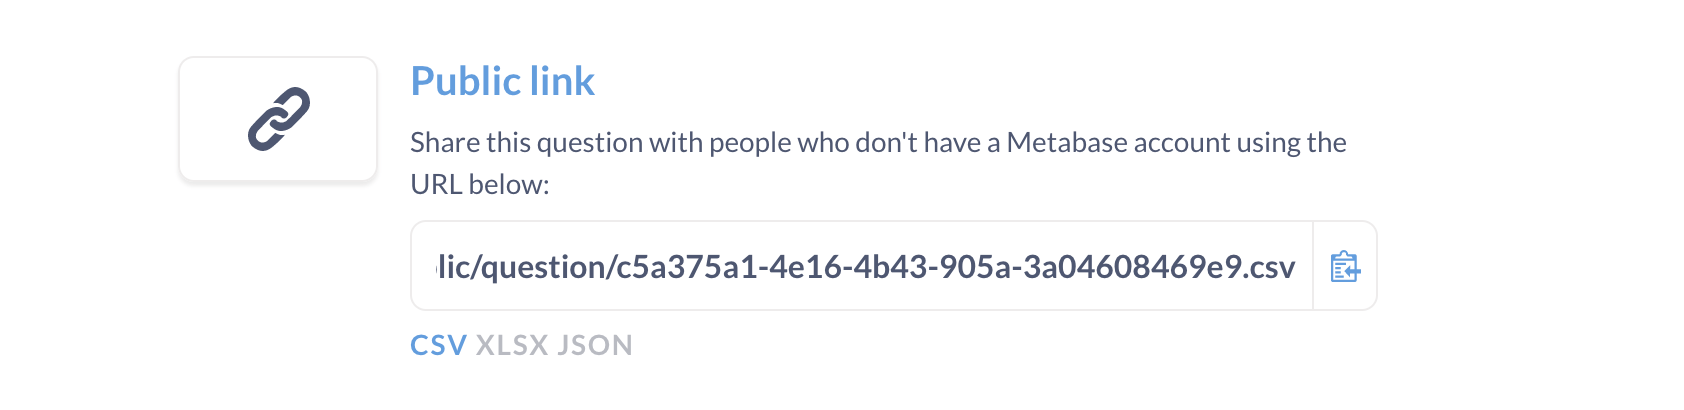
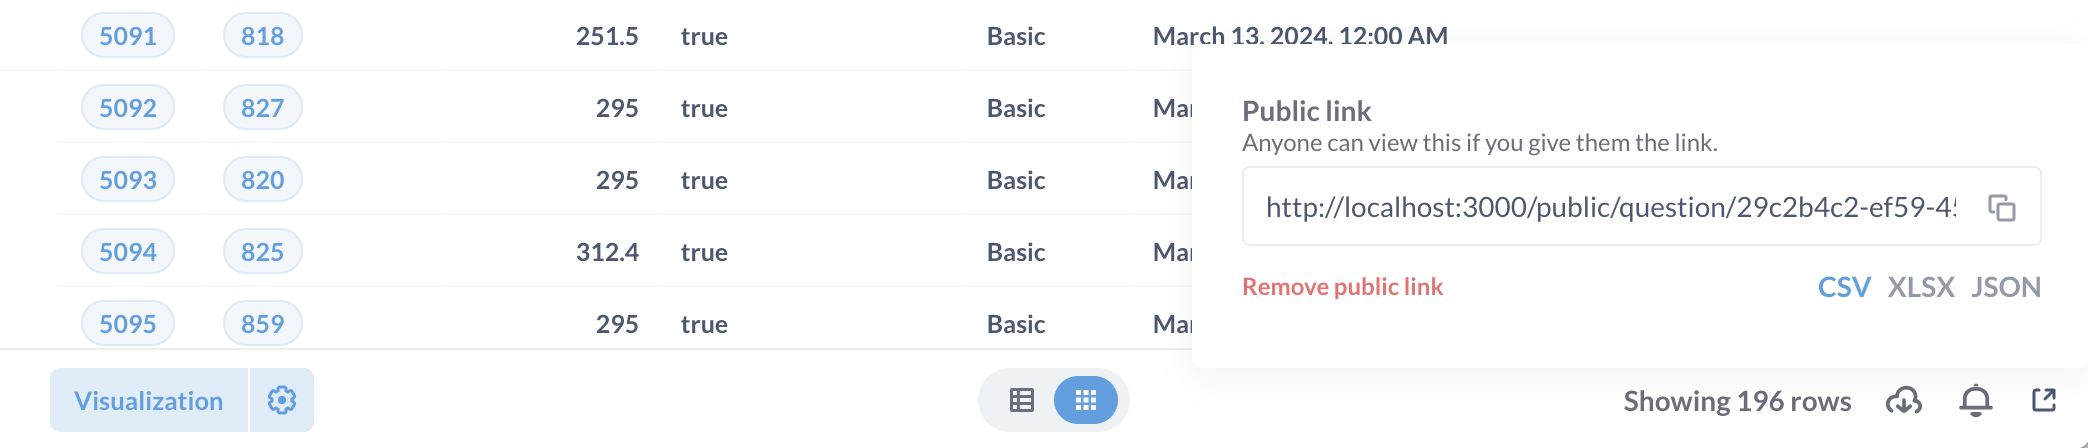
docs - update public sharing (#41044)

diff --git a/docs/questions/sharing/public-links.md b/docs/questions/sharing/public-links.md
@@ -8,31 +8,21 @@ redirect_from:
 
 # Public sharing
 
-Sometimes you'll want to share a dashboard or question with someone who isn't a part of your organization or company. To share your work with people who don't need access to your full Metabase instance, you can create public links and public embeds.
+You can create and share public links (URLs) for questions and dashboards. You can view them as standalone destinations (URLs) or as embedded iframes in another page or app. In both cases, the public item will display static (view-only) results of your question or dashboard, so visitors won't be able to drill-down into the underlying data on their own.
 
-## Enable public sharing in Metabase
+## Create a public link for a question
 
-![Enable public sharing](../images/enable-public-sharing.png)
+![Create a public link for a question](../images/create-a-public-link.png)
 
-In order to share Metabase items like questions and dashboards via a public link or an embedded iframe, an admin needs to enable public sharing for that Metabase instance by going to **Settings gear icon** > **Admin settings** > **Public sharing**.
+You can find the **Sharing** icon at the bottom right corner of a question. You can create a link to view the question as is, or to [export the results of a question](#public-link-to-export-question-results-in-csv-xlsx-json).
 
-Once toggled on, the **Public sharing** section will display Metabase questions, dashboards, and actions with active public links. To deactivate a public link, click the **X** in the **Revoke link** column for that item.
+## Create a public link for a dashboard
 
-## Enable sharing on your saved question or dashboard
+To share a dashboard via a public link, click on the **Sharing** button in the top right menu.
 
-Once [public sharing](#enable-sharing-on-your-saved-question-or-dashboard) is enabled for your Metabase, you'll find the **Sharing and embedding icon** on saved questions and dashboards (it looks like a box with an arrow pointing to the upper right).
+![Sharing a dashboard](../images/dashboard-sharing.png)
 
-You can find the **Sharing and embedding icon** icon at the bottom right corner of a question, or the top right corner of a dashboard.
-
-To enable public sharing on a question or dashboard, click on the **Sharing and embedding icon** icon to bring up the sharing settings modal, then click on the toggle.
-
-![Enable sharing](../images/enable-links.png)
-
-For more information about the option to **Embed this item in an application**, see the docs on [static embedding](../../embedding/static-embedding.md).
-
-## Public links
-
-Once you've [enabled sharing on your question or dashboard](#enable-sharing-on-your-saved-question-or-dashboard), you can copy and share the public link URL with whomever you please. The public link URL will display static (view-only) results of your question or dashboard, so visitors won't be able to drill-down into the underlying data on their own.
+To embed a dashboard, see [static embedding](../../embedding/static-embedding.md).
 
 ## Public link to export question results in CSV, XLSX, JSON
 
@@ -40,12 +30,13 @@ The export option is only available for questions, not dashboards.
 
 To create a public link that people can use to download the results of a question:
 
-1. Click on the **Sharing and embedding** icon for the question.
-2. Click the toggle to [enable sharing](#enable-sharing-on-your-saved-question-or-dashboard).
-3. Click on the file format you want (below the **Public link** URL).
-4. Open the public link in a new tab to test the download.
+1. Click on the **Sharing** icon for the question.
+2. Select **Public link**.
+3. Click on the file format you want (below the **Public link** URL): CSV, XLSX, or JSON.
 
 ![Public export](../images/public-export.png)
+
+Open the public link in a new tab to test the download.
 
 ### Exporting raw, unformatted question results
 
@@ -55,7 +46,7 @@ To export the raw, unformatted rows, you'll need to append `?format_rows=false` 
 https://www.example.com/public/question/cf347ce0-90bb-4669-b73b-56c73edd10cb.csv?format_rows=false
 ```
 
-By default, Metabase will export the results of a question that include any formatting you added (for example, if you formatted a column with floats to display as a percentage (o.42 -> 42%)).
+By default, Metabase will export the results of a question that include any formatting you added (for example, if you formatted a column with floats to display as a percentage (0.42 -> 42%)).
 
 See docs for the [export format endpoint](https://www.metabase.com/docs/latest/api/public#get-apipubliccarduuidqueryexport-format).
 
@@ -63,10 +54,10 @@ See docs for the [export format endpoint](https://www.metabase.com/docs/latest/a
 
 Metabase's automatic [drill-through](https://www.metabase.com/learn/questions/drill-through) won't work on public dashboards because public links don't give people access to your raw data.
 
-You can simulate drill-through on a public dashboard by setting up a [custom click behaviour](../../dashboards/interactive.md) that sends people from one public link to another public link.
+You can simulate drill-through on a public dashboard by setting up a [custom click behavior](../../dashboards/interactive.md) that sends people from one public link to another public link.
 
 1. Create a second dashboard to act as the destination dashboard.
-2. [Enable sharing](#enable-sharing-on-your-saved-question-or-dashboard) on the destination dashboard.
+2. [Create a public link](#create-a-public-link-for-a-dashboard) for the destination dashboard.
 3. Copy the destination dashboard's public link.
 4. On your primary dashboard, create a [custom destination](../../dashboards/interactive.md#custom-destinations) with type "URL".
 5. Set the custom destination to the destination dashboard's public link.
@@ -81,12 +72,15 @@ For example, if you have a primary public dashboard that displays **Invoices** d
 
 ## Public embeds
 
-If you want to embed your question or dashboard in a simple web page or blog post:
+![Public embed](../images/public-embed.png)
 
-1. Click on the **Sharing and embedding** icon for your question or dashboard.
-2. Click the toggle to [enable sharing](#enable-sharing-on-your-saved-question-or-dashboard).
-3. Copy the **Public embed** iframe snippet.
-4. Paste the iframe snippet in your destination of choice.
+If you want to embed your question or dashboard as an iframe in a simple web page or app:
+
+1. Click on the **Sharing** icon for your question or dashboard.
+2. Click **Embed**.
+3. Click **Public embed**.
+4. Copy the iframe snippet Metabase generates for you.
+5. Paste the iframe snippet in your destination of choice.
 
 To customize the appearance of your question or dashboard, you can update the link in the `src` attribute with [public embed parameters](#public-embed-parameters).
 
@@ -168,6 +162,42 @@ Note that the name of the filter in the URL should be specified in lower case, a
 ```
 /dashboard/42?filter_for_user_zip_code=02116
 ```
+
+## Disable public sharing in Metabase
+
+Public sharing is enabled by default.
+
+![Enable public sharing](../images/enable-public-sharing.png)
+
+To disable public sharing:
+
+1. Click on the **Gear** icon in the upper right.
+2. Select **Admin settings**.
+3. In the **Settings** tab, select **Public sharing**.
+4. Toggle off **Public sharing**.
+
+Once toggled on, the **Public sharing** section will display Metabase questions, dashboards, and actions with active public links.
+
+If you disable public sharing, then re-enable public sharing, all your previously generated public links will still work (as long as you didn't deactivate them).
+
+## Deactivating public links and embeds
+
+### Individual question or dashboard links and embeds
+
+1. Visit the question or dashboard.
+2. Click on **Sharing** icon.
+3. Select **Public link** or **Embed**.
+4. Click **Remove public link**.
+
+## Deactivating multiple public links and embeds
+
+Admins can view and deactivate all public links for a Metabase.
+
+1. Click on the **gear** icon in the upper right.
+2. Select **Admin settings**.
+3. Go to the **Settings** tab.
+4. Go to the **Public sharing** tab in the left sidebar.
+5. For each item you want to deactivate, click on the **X** to revoke its public link.
 
 ## Further reading
 
